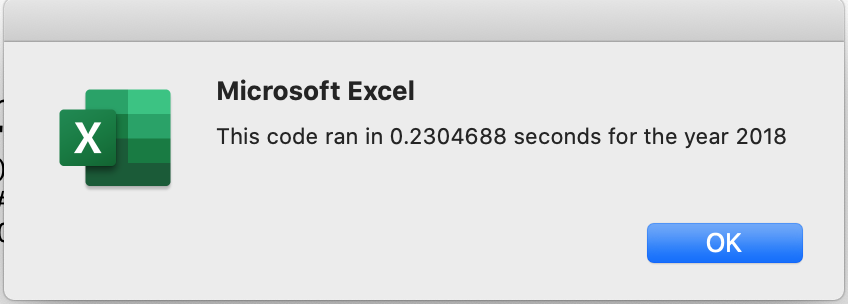
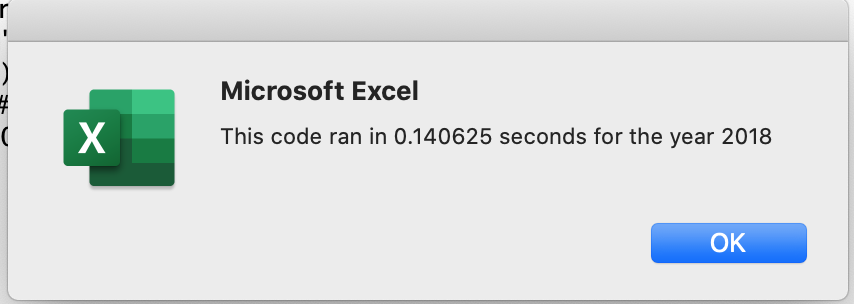
Analysis - Execution times vs Refactored

diff --git a/README.md b/README.md
@@ -30,6 +30,16 @@ Below are screenshots of the original execution times.
 | 2017 | ![2017 Original](https://github.com/christopher-ko-law/stock-analysis/blob/main/Resources/AllStocksAnalysis-2017-Original.png) | ![2017 Refactored](/Resources/AllStocksAnalysis-2017-Refactored.png) |
 | 2018 | ![2018 Original](/Resources/AllStocksAnalysis-2018-Original.png) |![2018 Original](/Resources/AllStocksAnalysis-2018-Refactored.png) |
 
+The original and refactor scripts were run 3 times each for a spread of execution times. Below is the table of execution times.
+
+| | 2017 Original | 2018 Original | 2017 Refactored | 2018 Refactored |
+| --- | --- | --- | --- | --- |  
+| Run 1 | 0.7968875	| 0.7617188	| 0.1523438	| 0.140625 |
+| Run 2 | 0.7265625	| 0.7539062	| 0.137188 | 0.13675188 |
+| Run 3 | 0.7226562	| 0.734375 | 0.140625 |	0.1445312 |
+| Mean | 0.748702067 | 0.75	| 0.1433856	| 0.140636027 |
+
+We see here that the refactored code runs nearly around 5x faster then the original script.
 
 ## Summary
 
